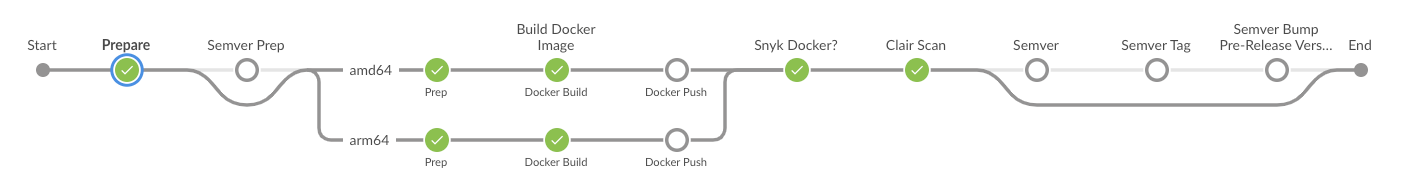
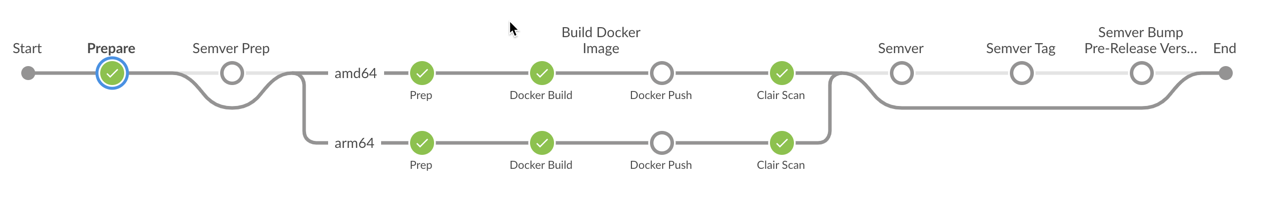
update pipeline images and other minor verbiage updates

diff --git a/README.md b/README.md
@@ -12,7 +12,7 @@
 * What is a Jenkinsfile?
 * Difference/benefits between JJB freestyle and Jenkins Pipeline.
   * **JJB Freestyle**: Yaml based, managed separate from source code that it builds. Hard to trace through all the templates and scripts. Relies on old paradigms to manage Jenkins jobs.
-  * **Jenkins Pipeline**: Suite of plugins that enables 'Pipeline-As-Code'. It allows users to define a build descriptor (Jenkinsfile) right next to the code to more easily manage code builds. More industry adoption/support. Officially supported by Cloudbees (makers of Jenkins).
+  * **Jenkins Pipeline**: Suite of plugins that enables **[Pipeline-As-Code](https://jenkins.io/doc/book/pipeline-as-code/)**. It allows users to define a build descriptor (Jenkinsfile) right next to the code to more easily manage code builds. More industry adoption/support. Officially supported by Cloudbees (makers of Jenkins).
 
 ## Plugins
   * Before: [GitHub Pull Request Builder](https://github.com/jenkinsci/ghprb-plugin) aka. GHPRB. This plugin is currently responsible for building all the pull requests. Plugin is no longer being actively developed and is up for adoption. Comments direct users to use the GitHub Branch Source plugin. Automatic builds on code push and allows triggering via GitHub comments (i.e. recheck).
@@ -95,19 +95,19 @@ Geneva introduces a set of pre-built Jenkins pipelines for use by the EdgeX comm
 
 ### edgeXBuildGoApp
 
-New pipeline that will be used for Go microservices.
+New pipeline that will be used for Go microservices. Leverages Docker to test/build Go code. Includes a Clair docker image scan as well as Snyk security scanning of Go dependencies. Uses git-semver to manage versions by default.
 
 ![edgeXBuildGoApp.png](images/edgeXBuildGoApp.png)
 
 ### edgeXBuildDocker
 
-A generic pipeline that builds and scans docker images.
+A generic pipeline that builds and scans docker images. Can be used to build any sort of docker image. Optionally, git-semver can be used as well to manage versions.
 
 ![edgeXBuildDocker.png](images/edgeXBuildDocker.png)
 
 ### edgeXGeneric
 
-Easily convert existing JJB templates to pipelines. Will be used for more complicated jobs as a temporary stop gap until a more custom pipeline can be created.
+Easily convert existing JJB templates to pipelines. Will be used for more complicated jobs as a temporary stop-gap until a more custom pipeline can be created.
 
 ![edgeXGeneric.png](images/edgeXGeneric.png)
 
